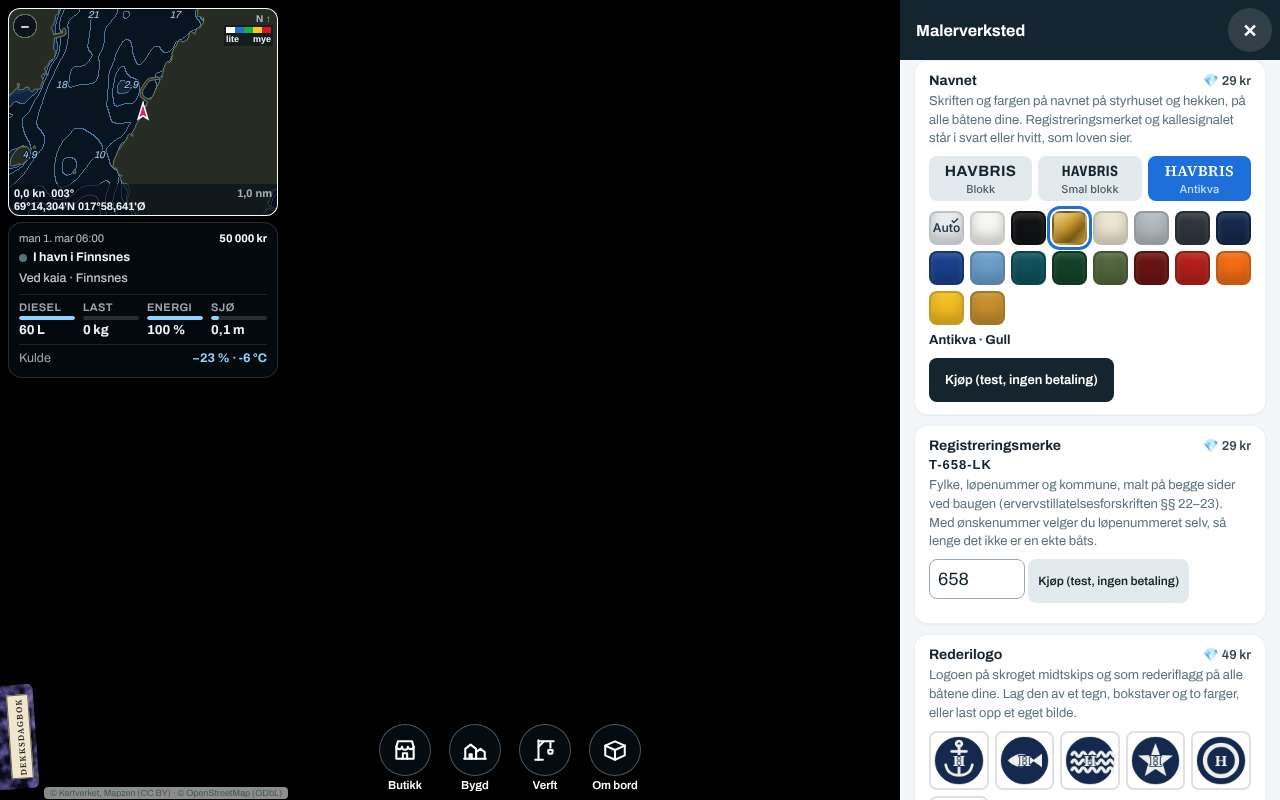
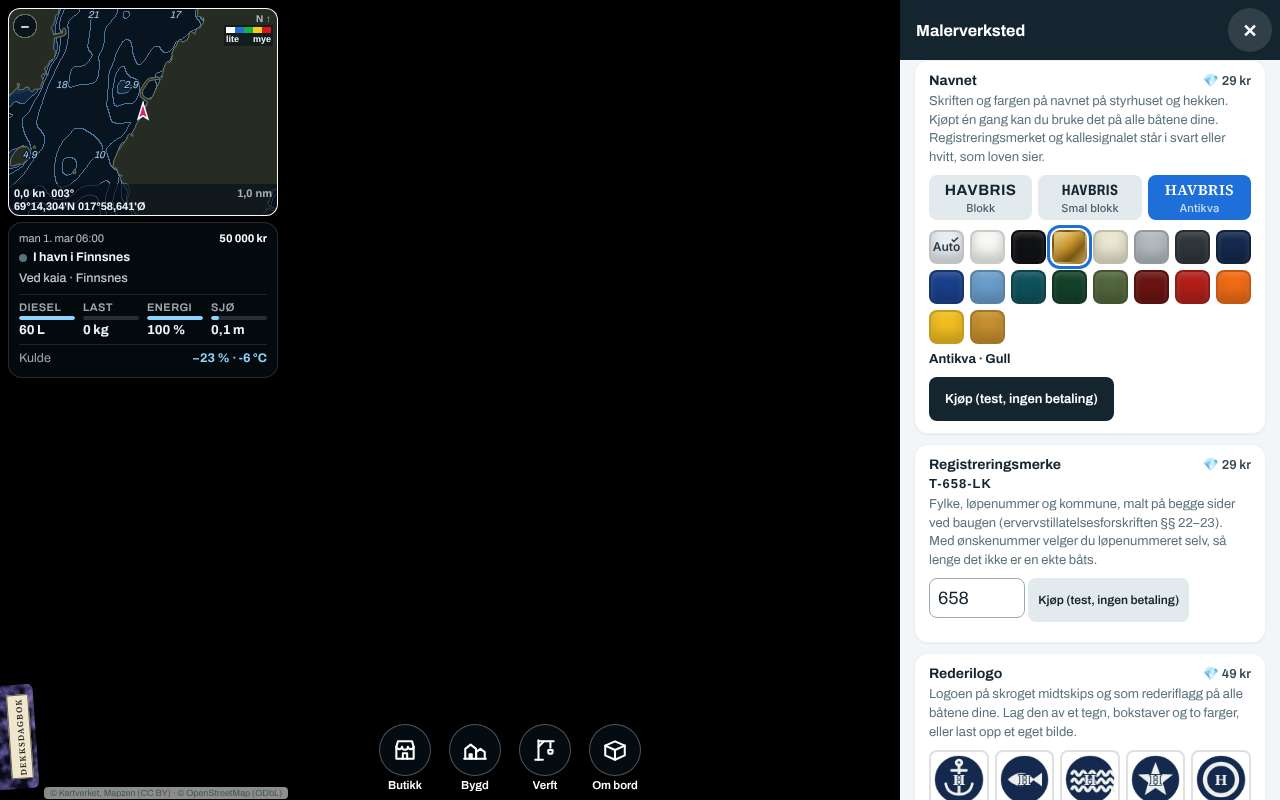
TP2: bildene (kortet i begge formater, antikva, smal blokk og blokk på hekken) og kodekartet
Claude-Session: https://claude.ai/code/session_013BxXiDwT1ZpDkDrwxBAPTG

Changed region(s): [[0.7188, 0.125, 1.0, 0.7812], [0.7188, 0.8125, 1.0, 1.0]]

diff --git a/docs/systemer/kodekart.md b/docs/systemer/kodekart.md
@@ -2899,12 +2899,12 @@ the rig: one kind of fishing at a time, changed here aboard (under Beholdning) w
 - **48** Skippertak (core/15-energy.js SKIP): an energy drink for real money only, for you and the crews of the whole fleet
   - 52 `skipApp()`
 
-## `src/js/ui/phone/07-patch.js` (1638 linjer)
+## `src/js/ui/phone/07-patch.js` (1641 linjer)
 
 --- the patch notes: what the latest updates brought, newest first; a new id at the top shows a badge until the app is opened
 
 - **1** the patch notes: what the latest updates brought, newest first; a new id at the top shows a badge until the app is opened
-  - 1626 `patch()`
+  - 1629 `patch()`
 
 ## `src/js/ui/phone/08-home-papers-merker.js` (124 linjer)
 
@@ -3692,16 +3692,16 @@ THE SHOP (05.10.2026; supabase/migrations/20261006040000_shop.sql, supabase/func
   - 356 `shopClaim()`
   - 410 `shopStart()`
 
-## `src/js/ui/10j-paint.js` (249 linjer)
+## `src/js/ui/10j-paint.js` (274 linjer)
 
 THE PAINT SHOP (Malerverkstedet; Jonas 06.10.2026, docs/engasjement.md): a button of its own under Verft. Your own boat lies
 
 - **1** THE PAINT SHOP (Malerverkstedet; Jonas 06.10.2026, docs/engasjement.md): a button of its own under Verft. Your own boat lies
-  - 204 `logoSet(L)`
-  - 212 `logoCheck()`
-  - 223 `cosSrv(owned)`
-  - 229 `giveCos(k)`
-  - 244 `regSet(n)`
+  - 228 `logoSet(L)`
+  - 236 `logoCheck()`
+  - 247 `cosSrv(owned)`
+  - 253 `giveCos(k)`
+  - 269 `regSet(n)`
 
 ## `src/js/ui/10q-buymoment.js` (44 linjer)
 
@@ -3845,7 +3845,7 @@ THE WATCHDOG (L1d, 10.11.2026, docs/planer/lansering-plan.md; Jonas, valg 16 V4 
   - 44 `wdWhere()`
   - 51 `wdBeat(off)`
 
-## `src/js/vessel3d.js` (1724 linjer)
+## `src/js/vessel3d.js` (1752 linjer)
 
 - **2** VESSEL MODELS
   - 7 `VB()`
@@ -3907,73 +3907,79 @@ THE WATCHDOG (L1d, 10.11.2026, docs/planer/lansering-plan.md; Jonas, valg 16 V4 
   - 640 `hullLiv(b)`
   - 641 `livKey(liv)`
   - 643 `livGeo(liv)`
-  - 648 `livStr(b)`
-  - 663 `livPen(s)`
-  - 665 `livMark(s)`
-  - 670 `livPaint(s)`
-  - 677 `livFlag(s)`
-  - 678 `livParse(s, type)`
-- **684** paint designs (Malerverkstedet): a stripe under the sheer (ripe), a second colour on the lower topsides (totone), a stripe at the
-  - 688 `topsides(type)`
-  - 706 `designLines(TS, liv)`
-  - 715 `glbDesign(type, part, liv)`
-  - 749 `designFits(type, k)`
-  - 756 `kitLiv(liv)`
-- **758** flags (Malerverkstedet, 07.10.2026): the ensign at the stern as a picture, so any nation and shape can fly. Each flag is drawn here
-- **807** the company logo (Malerverkstedet, 07.10.2026): made here from a sign, initials and two colours, or the player's own picture
-  - 818 `logoCanvas(cv, L, img)`
-  - 834 `logoStrips(type)`
-  - 855 `stripBare(type, st)`
-  - 870 `logoStr(L)`
-  - 871 `logoParse(s)`
-  - 875 `flagCanvas(cv, code, shape, logo)`
-  - 887 `flagOf(L)`
-- **888** the boat's name on her hull (Jonas 07.10.2026: «Pass på at båtnavnet vises godt på skroget på alle båtene»): a strip on each side
-  - 897 `hullTris(type)`
-  - 914 `sideStrip(type, frac, hMax, aspect, drop, band)`
-  - 954 `nameStrips(type)`
-  - 990 `stripProud(type, st)`
-  - 1013 `stripPaint(type, st)`
-  - 1034 `markStrips(type)`
-  - 1047 `stripSearch(type, lh, first0, fr, PAINT, avoid)`
-  - 1072 `callStrips(type)`
-  - 1078 `callRGB(type, liv)`
-  - 1081 `anchorLen(bw)`
-  - 1084 `markRGB(type, liv)`
-  - 1093 `hullRGB(type, liv)`
-- **1103** where the name is painted (Jonas 04.11.2026: «Det som er mest vanlig er at navnet på båten skrives i blokkbokstaver på kanten av
-  - 1114 `facingTris(P, dir, keep)`
-  - 1129 `rayZ(T, x, y, dir, za, zb)`
-  - 1140 `crossStrip(T, xa, xb, y0, y1, z0, zw, dir, off)`
-  - 1151 `crossPaint(T, xa, xb, y0, y1, dir, za, zb)`
-  - 1162 `halfWidth(T, y, z0, zw, dir, wmax)`
-  - 1173 `houseFront(type, P, Gl, V)`
-  - 1216 `transom(type, P, V)`
-  - 1251 `namePlaces(type)`
-  - 1269 `placeRGB(type, p, liv)`
-  - 1277 `nameInkLight(rgb)`
-  - 1281 `npcKit(L, B)`
-  - 1287 `npcModelKey(type, lod, liv)`
-  - 1288 `npcModel(type, lod, liv)`
-  - 1289 `npcModelDrop(k)`
-  - 1291 `personVB(B, x, y, z, seated, hands, suit, kit)`
-- **1303** people from tools/harbour/arbeider.py: one body in parts, posed at its joints and painted per kit
-  - 1322 `vestKit(K)`
-  - 1337 `wkPart(name, kit)`
-  - 1347 `wkPut(B, o, ax, s, at)`
-  - 1357 `wkLimb(B, o, A, E, r)`
-  - 1364 `figureVB(B, x, y, z, seated, hands, kit)`
-  - 1386 `vesselSVG(type, w, h)`
-- **1424** the deck map: where people can walk on each type (the crew plan, docs/mannskap-plan.md)
-  - 1431 `deckMap(type)`
-  - 1576 `deckPass(M, k, q)`
-  - 1581 `passLine(M, A, B)`
-  - 1583 `linkPass(M, k, q)`
-  - 1587 `deckComp(M)`
-  - 1596 `deckPath(M, a, b)`
-- **1627** the lanterns after Sjøveisreglene (FOR-1975-12-01-5, rules 22–30, read on Lovdata 17.10.2026; docs/batplan.md del 11)
-  - 1640 `lanterns(G, V, st)`
-  - 1683 `deckPoints(type)`
+  - 650 `livStr(b)`
+  - 670 `livPen(s)`
+  - 672 `livMark(s)`
+  - 677 `livPaint(s)`
+  - 684 `livFlag(s)`
+  - 685 `livParse(s, type)`
+- **691** paint designs (Malerverkstedet): a stripe under the sheer (ripe), a second colour on the lower topsides (totone), a stripe at the
+  - 695 `topsides(type)`
+  - 713 `designLines(TS, liv)`
+  - 722 `glbDesign(type, part, liv)`
+  - 756 `designFits(type, k)`
+  - 763 `kitLiv(liv)`
+- **765** flags (Malerverkstedet, 07.10.2026): the ensign at the stern as a picture, so any nation and shape can fly. Each flag is drawn here
+- **814** the company logo (Malerverkstedet, 07.10.2026): made here from a sign, initials and two colours, or the player's own picture
+  - 825 `logoCanvas(cv, L, img)`
+  - 841 `logoStrips(type)`
+  - 862 `stripBare(type, st)`
+  - 877 `logoStr(L)`
+  - 878 `logoParse(s)`
+  - 882 `flagCanvas(cv, code, shape, logo)`
+  - 894 `flagOf(L)`
+- **895** the boat's name on her hull (Jonas 07.10.2026: «Pass på at båtnavnet vises godt på skroget på alle båtene»): a strip on each side
+  - 904 `hullTris(type)`
+  - 921 `sideStrip(type, frac, hMax, aspect, drop, band)`
+  - 961 `nameStrips(type)`
+  - 997 `stripProud(type, st)`
+  - 1020 `stripPaint(type, st)`
+  - 1041 `markStrips(type)`
+  - 1054 `stripSearch(type, lh, first0, fr, PAINT, avoid)`
+  - 1079 `callStrips(type)`
+  - 1085 `callRGB(type, liv)`
+  - 1088 `anchorLen(bw)`
+  - 1091 `markRGB(type, liv)`
+  - 1100 `hullRGB(type, liv)`
+- **1110** where the name is painted (Jonas 04.11.2026: «Det som er mest vanlig er at navnet på båten skrives i blokkbokstaver på kanten av
+  - 1121 `facingTris(P, dir, keep)`
+  - 1136 `rayZ(T, x, y, dir, za, zb)`
+  - 1147 `crossStrip(T, xa, xb, y0, y1, z0, zw, dir, off)`
+  - 1158 `crossPaint(T, xa, xb, y0, y1, dir, za, zb)`
+  - 1169 `halfWidth(T, y, z0, zw, dir, wmax)`
+  - 1180 `houseFront(type, P, Gl, V)`
+  - 1223 `transom(type, P, V)`
+  - 1258 `namePlaces(type)`
+  - 1276 `placeRGB(type, p, liv)`
+  - 1284 `nameInkLight(rgb)`
+- **1288** the name's lettering (TP2, steg 109; Jonas 12.11.2026, V4 B: «Tre skrifter og farge»): three letterings real boats carry, block
+  - 1297 `contrastOf(a, b)`
+  - 1300 `nameStyle(L)`
+  - 1302 `livName(s)`
+  - 1303 `livHome(s)`
+  - 1305 `nameInk(under, c)`
+  - 1309 `npcKit(L, B)`
+  - 1315 `npcModelKey(type, lod, liv)`
+  - 1316 `npcModel(type, lod, liv)`
+  - 1317 `npcModelDrop(k)`
+  - 1319 `personVB(B, x, y, z, seated, hands, suit, kit)`
+- **1331** people from tools/harbour/arbeider.py: one body in parts, posed at its joints and painted per kit
+  - 1350 `vestKit(K)`
+  - 1365 `wkPart(name, kit)`
+  - 1375 `wkPut(B, o, ax, s, at)`
+  - 1385 `wkLimb(B, o, A, E, r)`
+  - 1392 `figureVB(B, x, y, z, seated, hands, kit)`
+  - 1414 `vesselSVG(type, w, h)`
+- **1452** the deck map: where people can walk on each type (the crew plan, docs/mannskap-plan.md)
+  - 1459 `deckMap(type)`
+  - 1604 `deckPass(M, k, q)`
+  - 1609 `passLine(M, A, B)`
+  - 1611 `linkPass(M, k, q)`
+  - 1615 `deckComp(M)`
+  - 1624 `deckPath(M, a, b)`
+- **1655** the lanterns after Sjøveisreglene (FOR-1975-12-01-5, rules 22–30, read on Lovdata 17.10.2026; docs/batplan.md del 11)
+  - 1668 `lanterns(G, V, st)`
+  - 1711 `deckPoints(type)`
 
 ## `src/js/deckcrew.js` (1138 linjer)
 
@@ -4416,7 +4422,7 @@ THE WATCHDOG (L1d, 10.11.2026, docs/planer/lansering-plan.md; Jonas, valg 16 V4 
   - 187 `handKit(t)`
   - 209 `buildSkiff()`
 
-## `src/js/view3d/13-instruments.js` (663 linjer)
+## `src/js/view3d/13-instruments.js` (692 linjer)
 
 ---------- the skiff's live instruments ----------
 
@@ -4427,43 +4433,43 @@ THE WATCHDOG (L1d, 10.11.2026, docs/planer/lansering-plan.md; Jonas, valg 16 V4 
   - 75 `paintGauges(dt)`
   - 91 `paintVhf()`
   - 103 `placeQ(t)`
-  - 105 `drawNames(t, M, VP, liv, nm, port, other)`
-  - 122 `buyAt()`
-  - 127 `buyShow(nm)`
-  - 133 `markCanvas(cv, txt, light)`
-  - 139 `markTex(t, liv)`
-  - 147 `imgOf(src)`
-  - 148 `curLogo()`
-  - 149 `logoTexOf(L, img)`
-  - 157 `logoQ(t)`
-  - 158 `drawLogo(t, M, VP, L, img)`
-  - 163 `imgCors(src)`
-  - 167 `markQ(t)`
-  - 168 `drawMark(t, M, VP, liv)`
-  - 172 `callQ(t)`
-  - 173 `drawCall(t, M, VP, liv)`
-  - 178 `nameCanvas(cv, nm, light, rv)`
-  - 197 `nameTex(nm, light, aspect, mark)`
-  - 206 `revealTex(nm, light, aspect, rv)`
-  - 213 `drawNPCNames(kit, VP)`
-  - 225 `paintHand()`
-  - 234 `limbM(A, B, r)`
-  - 240 `armTo(BMrel, W, Sw, Hw, sd, sp)`
-  - 250 `drawSkiff(BMrel, VP, dt, showSkipper, showCrew)`
-  - 439 `drawSkiffGlass(BMrel, VP)`
-  - 449 `jigRail(t, G)`
-  - 482 `drawJigRail(BMrel, VP, t, G, dt)`
-  - 515 `drawGlass(m, BMrel, VP)`
-  - 534 `drawDrops(m, BMrel, VP, t)`
-  - 545 `buildBoat()`
-  - 571 `buildFlag()`
-  - 583 `flagTex()`
-  - 596 `mastTop(G)`
-  - 601 `clothInto(a, ph, appW)`
-  - 613 `clothStep(C, t, appW)`
-  - 614 `updateFlag(t, appW)`
-  - 627 `peerFlagTex(n)`
-  - 639 `drawPeerFlags(kit, VP, t, H)`
+  - 106 `drawNames(t, M, VP, liv, nm, port, other, sty)`
+  - 127 `buyAt()`
+  - 132 `buyShow(nm)`
+  - 141 `markCanvas(cv, txt, light)`
+  - 147 `markTex(t, liv)`
+  - 155 `imgOf(src)`
+  - 156 `curLogo()`
+  - 157 `logoTexOf(L, img)`
+  - 165 `logoQ(t)`
+  - 166 `drawLogo(t, M, VP, L, img)`
+  - 171 `imgCors(src)`
+  - 175 `markQ(t)`
+  - 176 `drawMark(t, M, VP, liv)`
+  - 180 `callQ(t)`
+  - 181 `drawCall(t, M, VP, liv)`
+  - 195 `nameCanvas(cv, nm, ink, rv, font)`
+  - 223 `nameTex(nm, ink, aspect, mark, font)`
+  - 234 `revealTex(nm, ink, aspect, rv, font)`
+  - 242 `drawNPCNames(kit, VP)`
+  - 254 `paintHand()`
+  - 263 `limbM(A, B, r)`
+  - 269 `armTo(BMrel, W, Sw, Hw, sd, sp)`
+  - 279 `drawSkiff(BMrel, VP, dt, showSkipper, showCrew)`
+  - 468 `drawSkiffGlass(BMrel, VP)`
+  - 478 `jigRail(t, G)`
+  - 511 `drawJigRail(BMrel, VP, t, G, dt)`
+  - 544 `drawGlass(m, BMrel, VP)`
+  - 563 `drawDrops(m, BMrel, VP, t)`
+  - 574 `buildBoat()`
+  - 600 `buildFlag()`
+  - 612 `flagTex()`
+  - 625 `mastTop(G)`
+  - 630 `clothInto(a, ph, appW)`
+  - 642 `clothStep(C, t, appW)`
+  - 643 `updateFlag(t, appW)`
+  - 656 `peerFlagTex(n)`
+  - 668 `drawPeerFlags(kit, VP, t, H)`
 
 ## `src/js/view3d/14-sea.js` (724 linjer)
 
@@ -4887,7 +4893,7 @@ THE WATCHDOG (L1d, 10.11.2026, docs/planer/lansering-plan.md; Jonas, valg 16 V4 
   - 614 `drawEffects(VP, eye, BM, dt, t)`
   - 747 `updateLabels(VP, eye, W, Hh)`
 
-## `src/js/view3d/25-controls.js` (263 linjer)
+## `src/js/view3d/25-controls.js` (265 linjer)
 
 ---------- controls ----------
 
